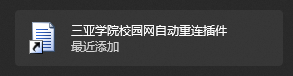
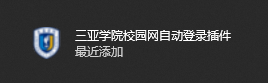
README Update

Changed region(s): [[0.0896, 0.2895, 0.8657, 0.7105]]

diff --git a/README.md b/README.md
@@ -1,4 +1,4 @@
-# 三亚学院校园网自动重连, 登录插件
+# 三亚学院校园网自动重连登录插件
 
 最近打游戏时总是校园网突然掉线啊，干脆直接写了个app常驻后台自动打开登录页面
 
@@ -9,21 +9,31 @@
 
 ## 使用说明
 
-以下教程写给纯小白的 XD 平时玩 Github 的应该已经显而易见的用上了吧
+以下教程写给纯小白的 XD 平时玩 Github 的应该已经轻车熟路的用上了吧
 
 ### 下载安装
 
-1. 在右侧 Release 中下载，点击 **USYNetAutoLoginSetup.msi** 会自动开始下载
+1. 点击进入 Releases 的 **三亚学院校园网自动重连插件**
 
     ![](readmeImg/1.png)
 
-2. 下载完成后，双击进行安装，可能会卡在请稍后一点时间，请耐心等待
+2. 根据文件说明在下方选择你要的版本，推荐第一个
 
-3. 安装完成后将会在 桌面 和 开始菜单 建立图标
+    ![](readmeImg/4.png)
+
+ - USYNetAutoLoginSetup_1.0.1.msi 版本
+
+    下载完成后，双击进行安装
+
+ - USYNetAutoLogin_1.0.1.zip 版本
+
+    下载完成后，解压直接双击 USYNetAutoLogin.exe 运行
+
+4. 安装完成后将会在 桌面 和 开始菜单 建立图标
 
     ![](readmeImg/2.png)
 
-### 使用效果
+### 软件说明
 
 1. **启动后将不会有窗口弹出，在 隐藏任务栏中**
 
@@ -36,3 +46,43 @@
 3. 检测到网络断开连接会自动打开校园网网页
 
 4. 退出：直接右键点击退出
+
+## USYNetAutoLogin_1.0.1.zip 版本的特殊功能
+
+解压后文件应该如图所示
+
+![](readmeImg/5.png)
+
+- icon_connected.ico: 网络正常时图标，可替换
+- icon_disconnected.ico: 网络失去连接时图标，可替换
+- config.txt: 设置检测间隔时间，单位为 ms
+    
+    如 时间间隔=2000 为 2s 检测一次，最低时间建议 500 以上
+
+    设置成功可在插件右键菜单中显示当前设置的间隔长度
+
+    修改完成后，需重启插件才能生效哟
+
+## 关于
+
+### 此项目属于 [Alyvesy](https://github.com/Alyvesy)
+
+### 此项目使用协议：BY-NC-ND 4.0 ，包含了以下条款：
+
+署名（Attribution）：您必须给予原作者适当的署名，提供指向许可证的链接，并说明是否对作品进行了修改。您可以以合理的方式进行署名，但不能暗示作者支持您或您使用该作品的方式。
+
+非商业性使用（NonCommercial）：您可以复制和分发作品，但只能用于非商业目的。这意味着您不能以任何商业方式使用该作品。
+
+禁止演绎（NoDerivatives）：您不能修改、转换或以其他方式构建在该作品之上。您只能以原始形式分发该作品。
+
+保留权利：除了在许可证中明确规定的权利外，所有其他权利均保留给原作者。这意味着未获得作者许可的使用仍然是受限的。
+
+适用法律：许可证在适用法律的范围内有效，且不影响原作者根据法律享有的其他权利。
+
+许可证的有效性：若某人违反许可证条款，许可证将自动终止，但如果该人随后停止违规行为并满足许可证的所有条款，则许可证将恢复有效。
+
+### 其他
+
+为了安全性原因才使用的 BY-NC-ND 4.0 协议
+
+后续将制作通用型 app 并新开个 repo，并将遵守 GPLv3 协议
